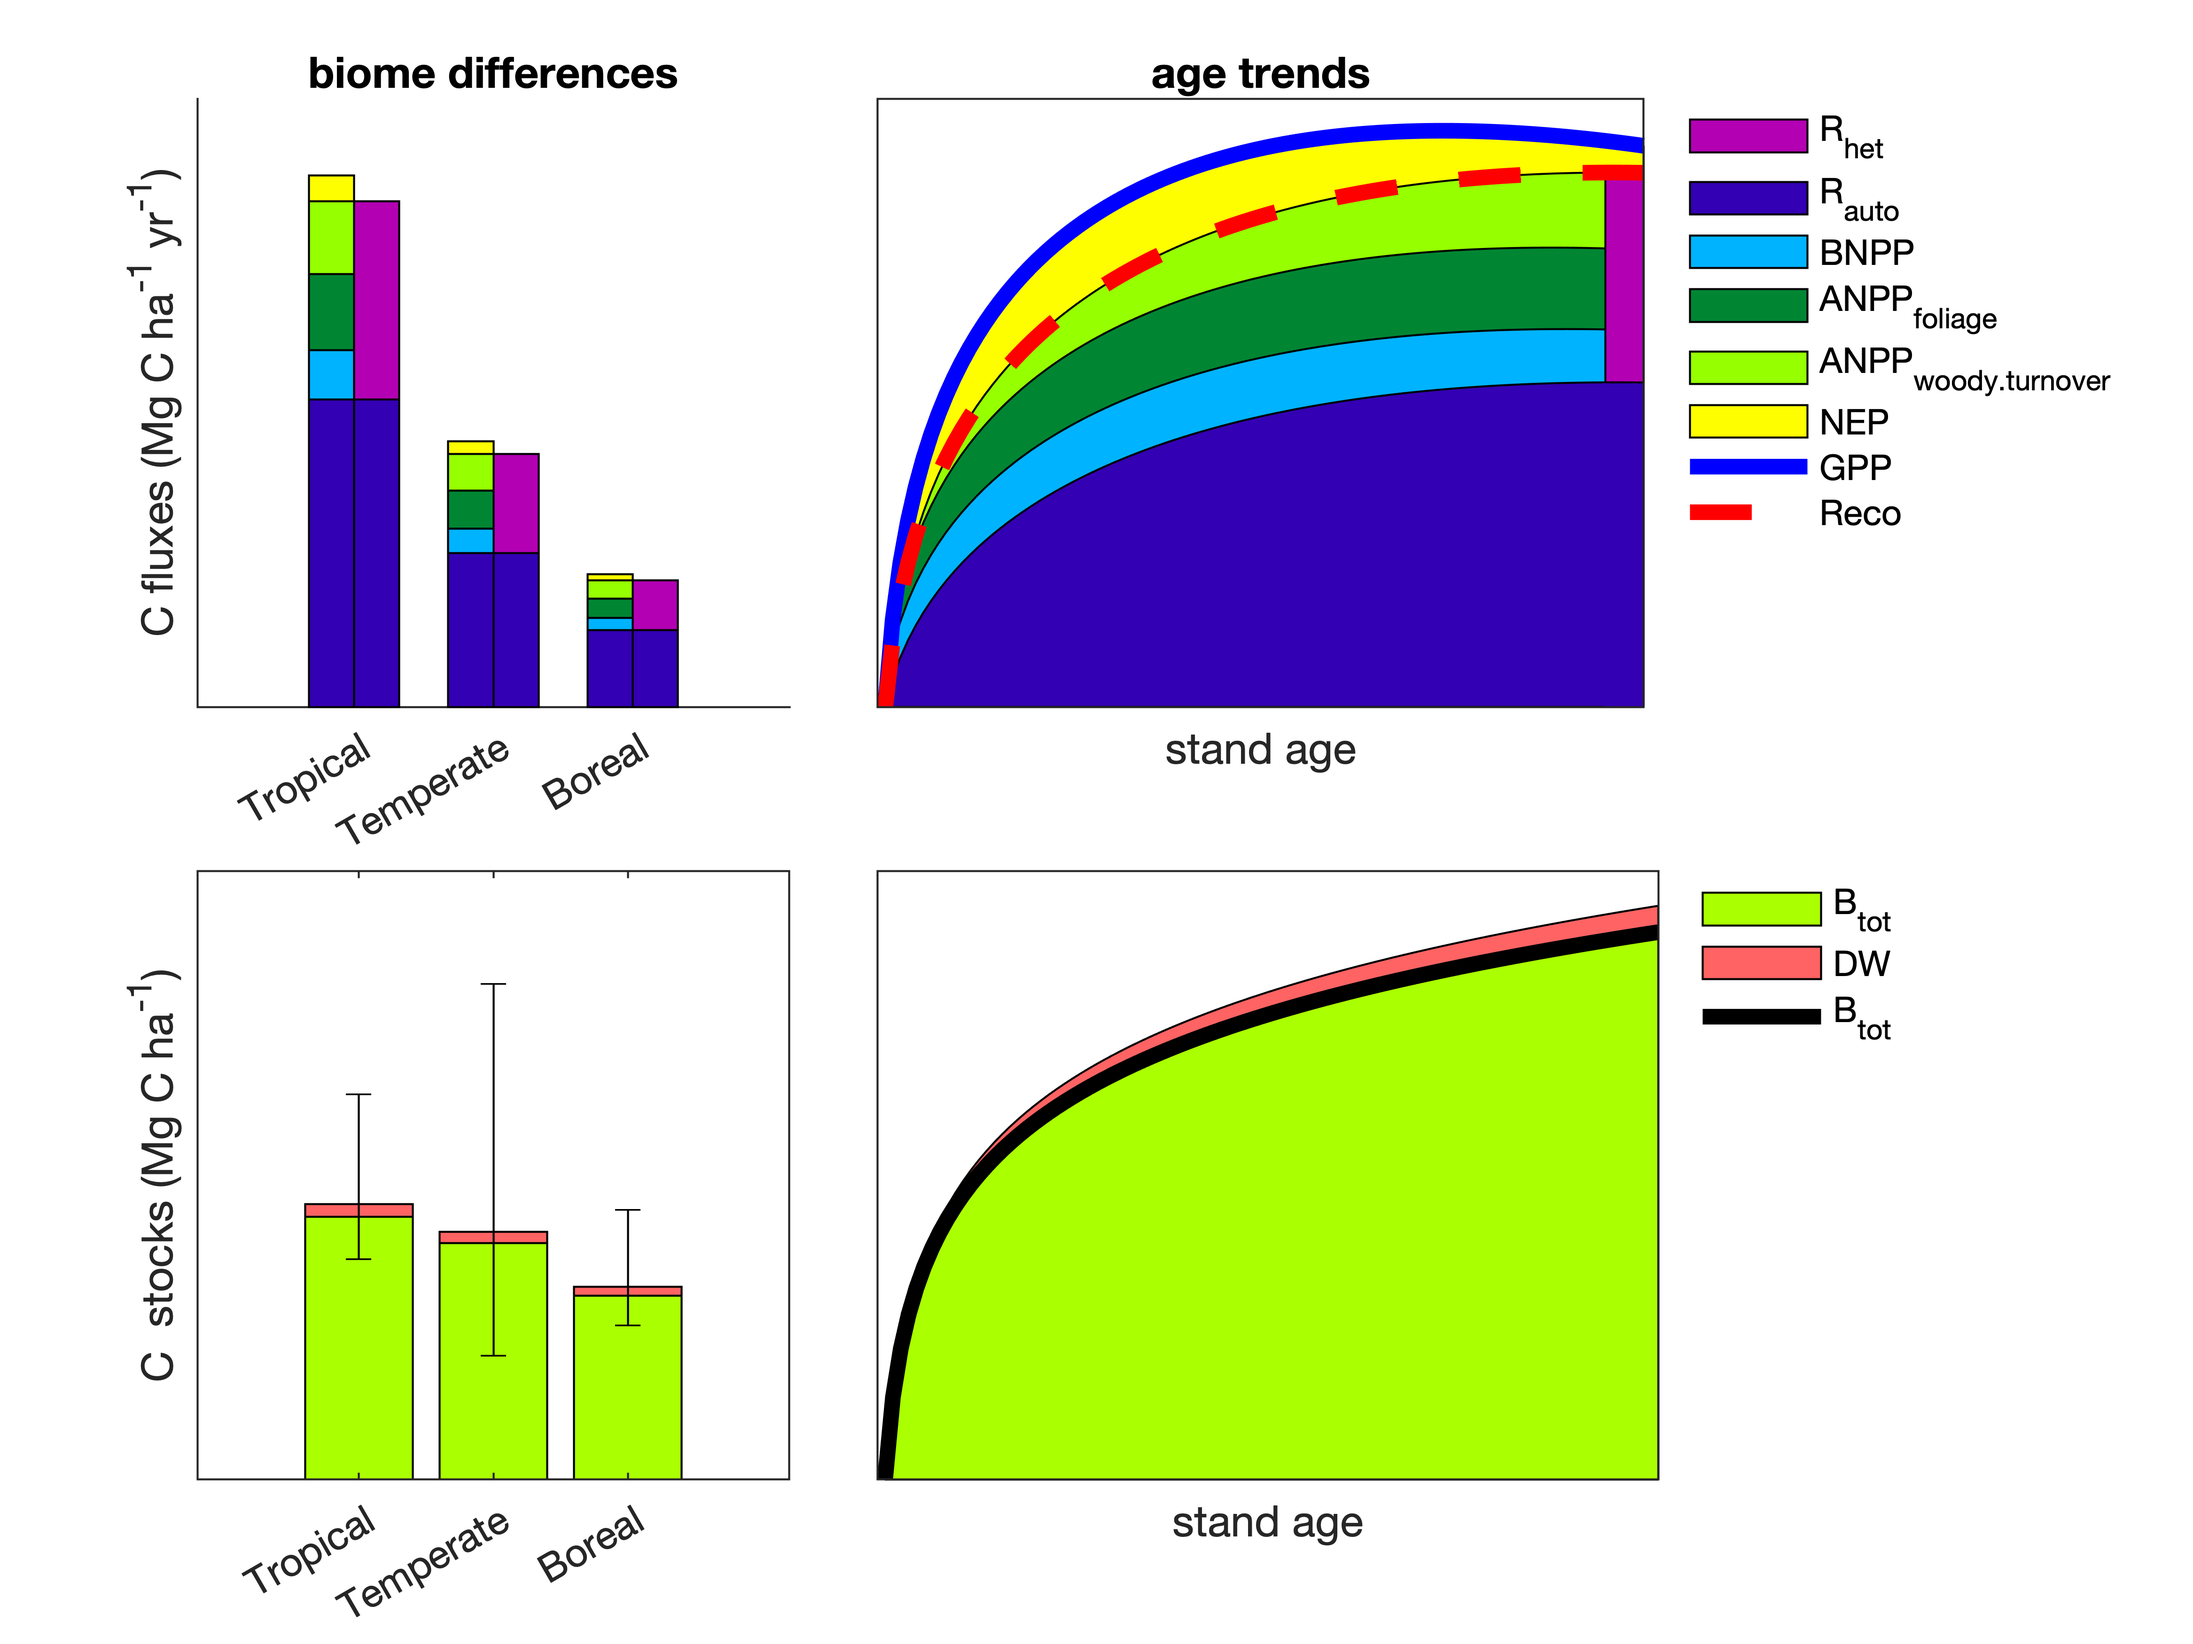
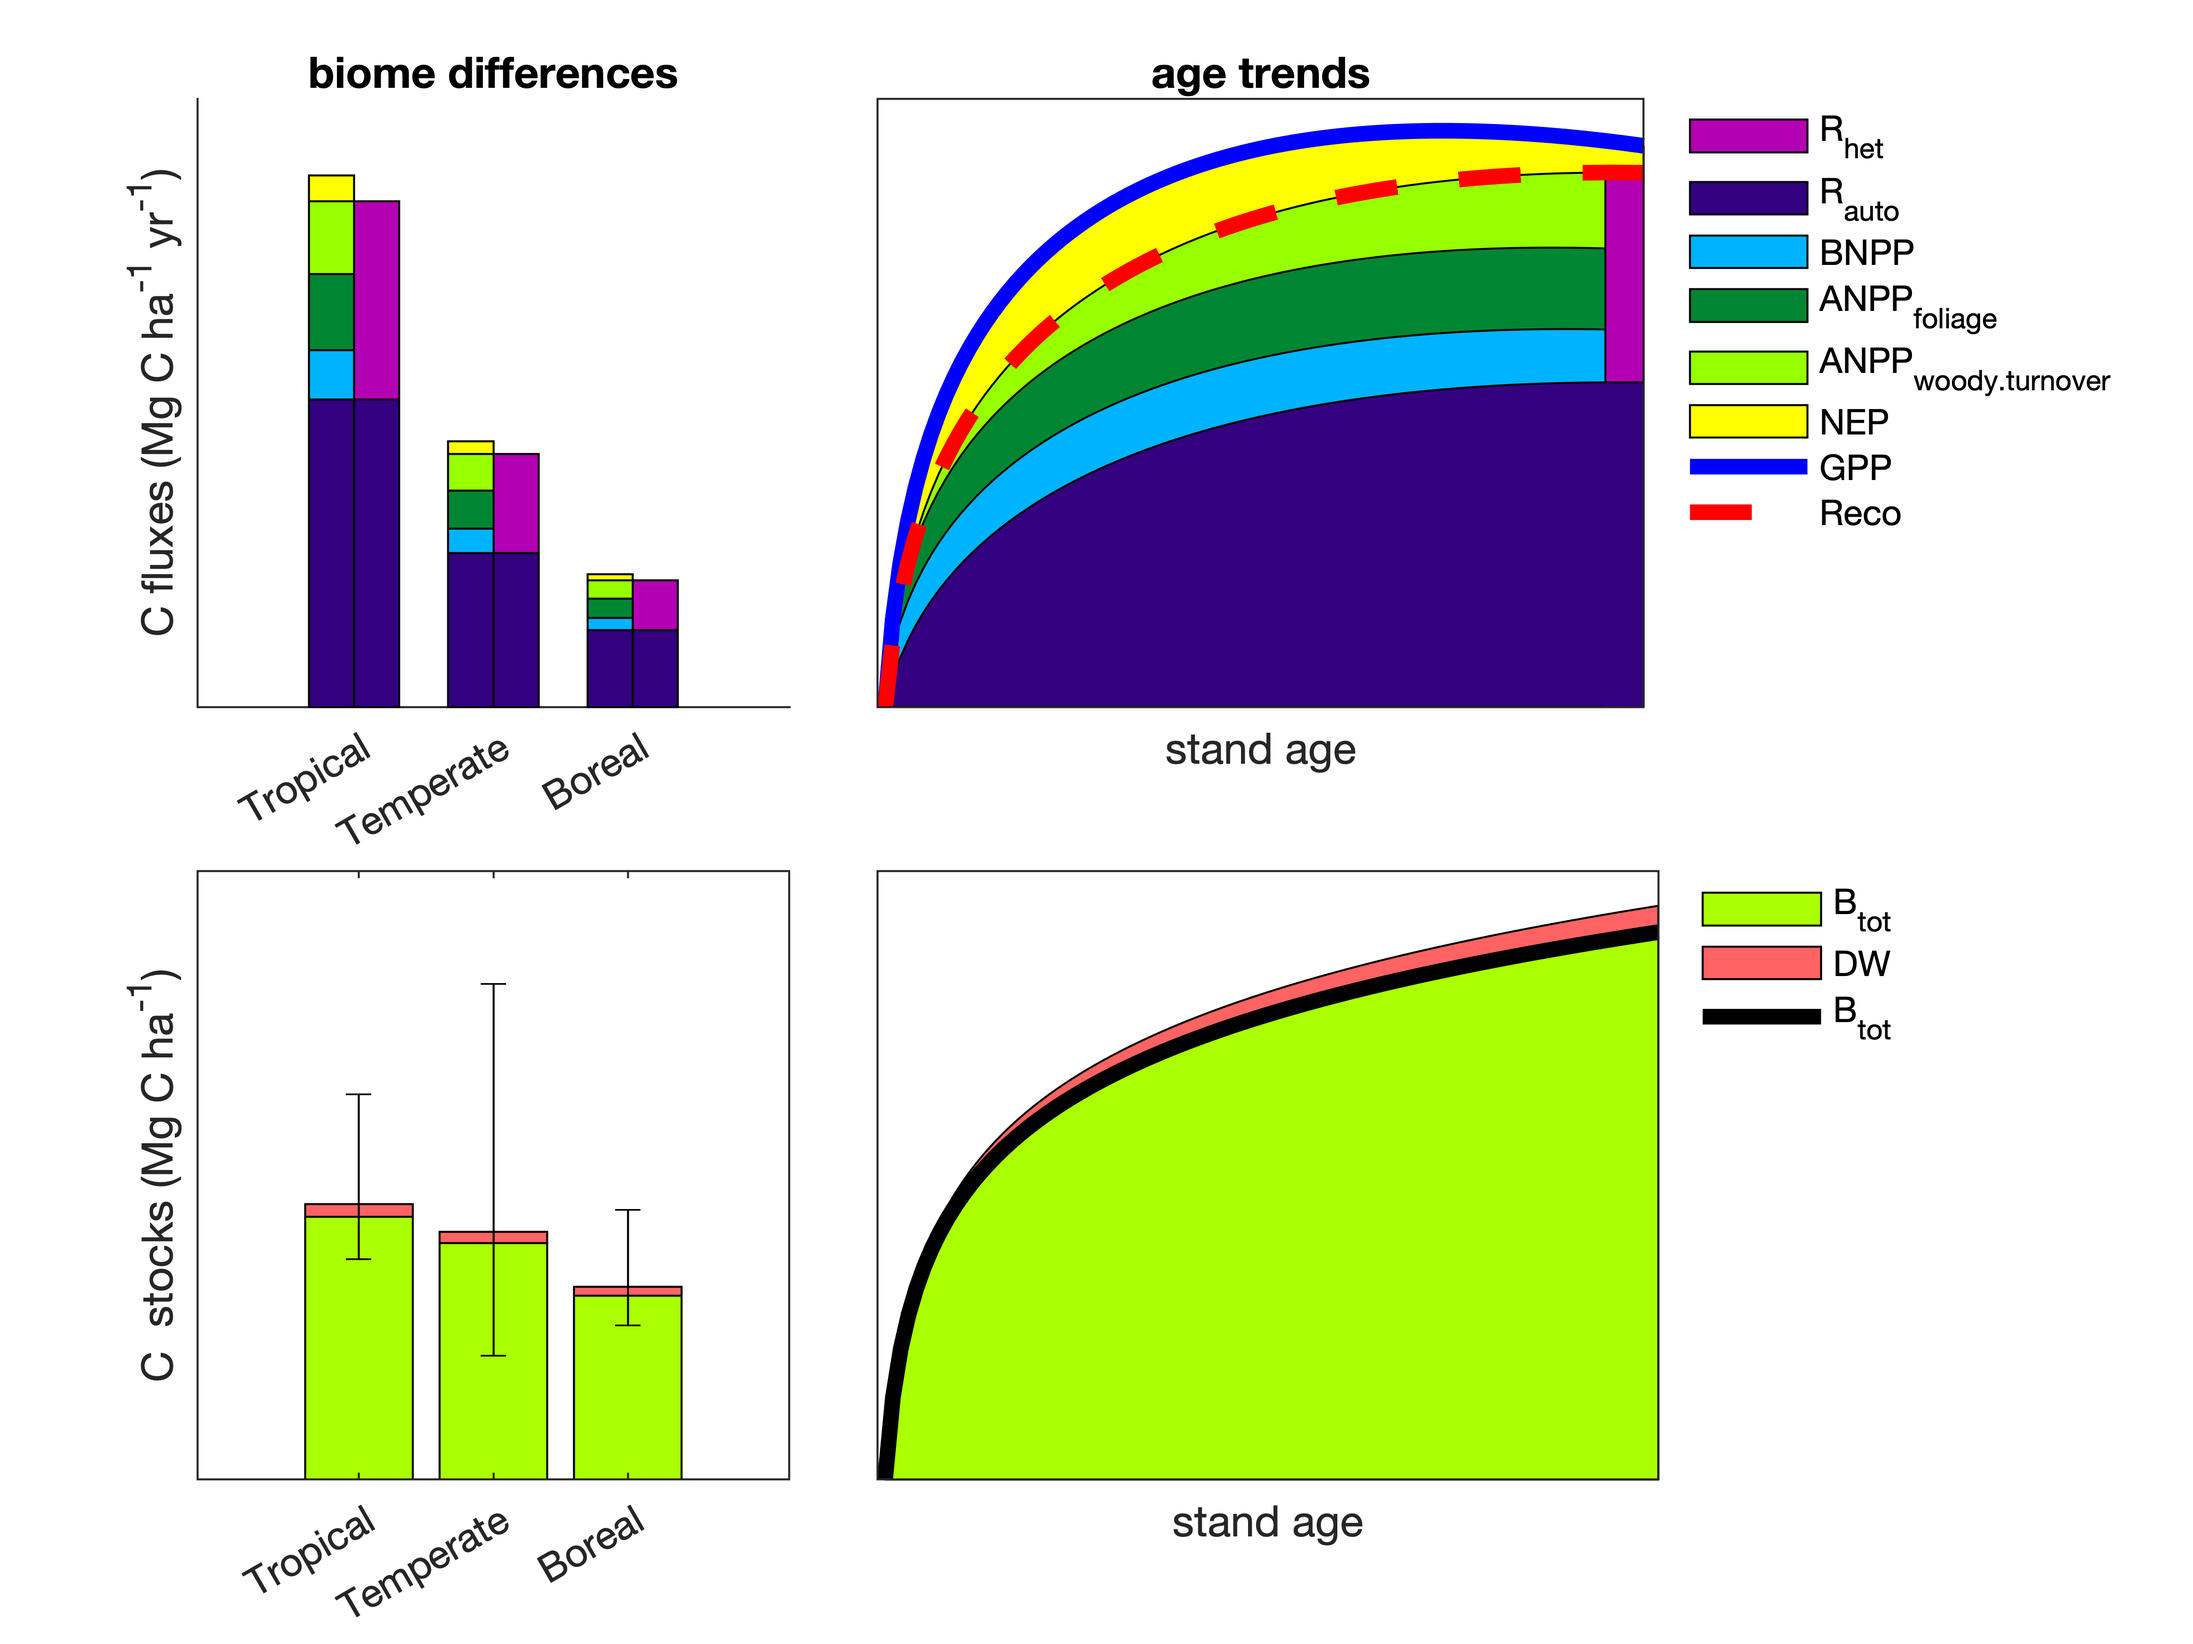
differentiate blue shades
#61

Changed region(s): [[0.4039, 0.218, 0.7767, 0.436], [0.1243, 0.218, 0.3107, 0.436], [0.7767, 0.0934, 0.8389, 0.1557]]

diff --git a/manuscript/tables_figures/stacked_age_trends/schematic.m b/manuscript/tables_figures/stacked_age_trends/schematic.m
@@ -21,7 +21,7 @@ set(0,'DefaultLegendAutoUpdate','off');
     pos_age_s=[left_marg+plot_width_biome+plot_space_horizontal lower_marg+0*(plot_height+plot_space_vertical) plot_width_age_s plot_height];
 
 %set facecolors:
-    facecolor_in_fluxes= [0.2 0 .7;...  %' 'R_{auto}'
+    facecolor_in_fluxes= [0.2 0 .5;...  %' 'R_{auto}'
                         0 .7 1;...  %'BNPP'
                         0 .527 .2;... %'ANPP_{foliage}',
                         150/255 1 0 ;...%'ANPP_{woody.turnover}*'
